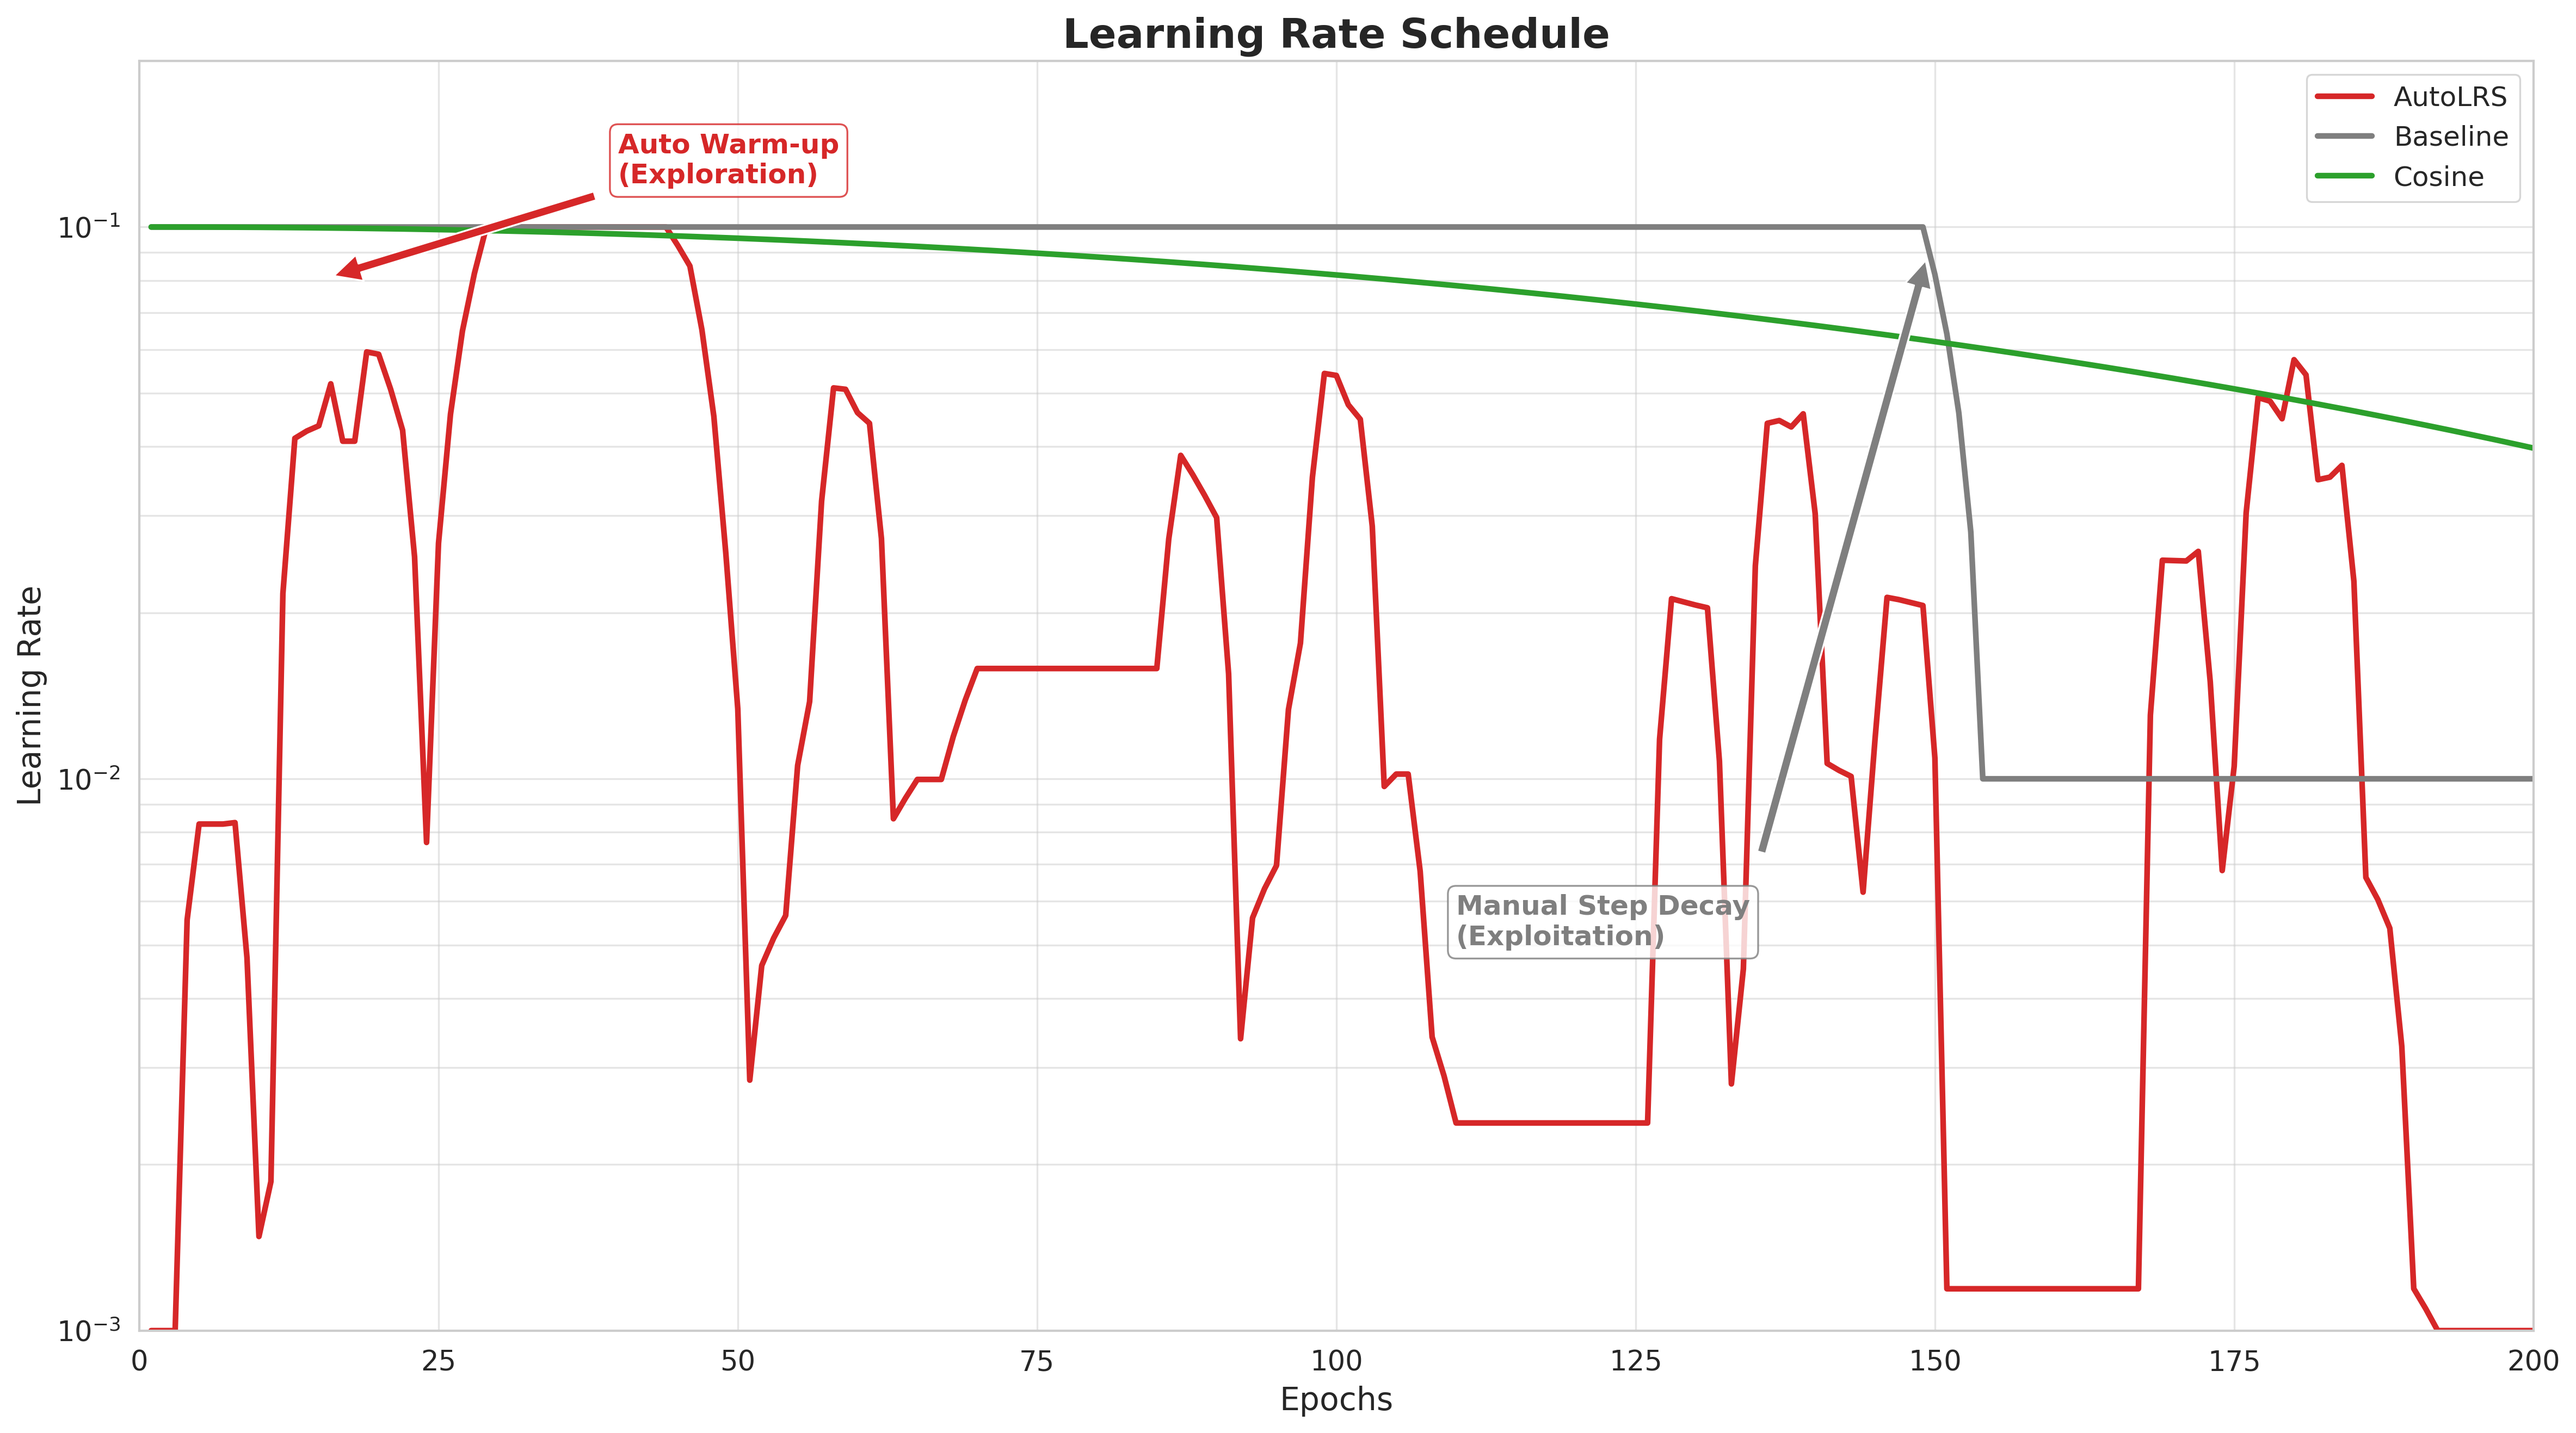
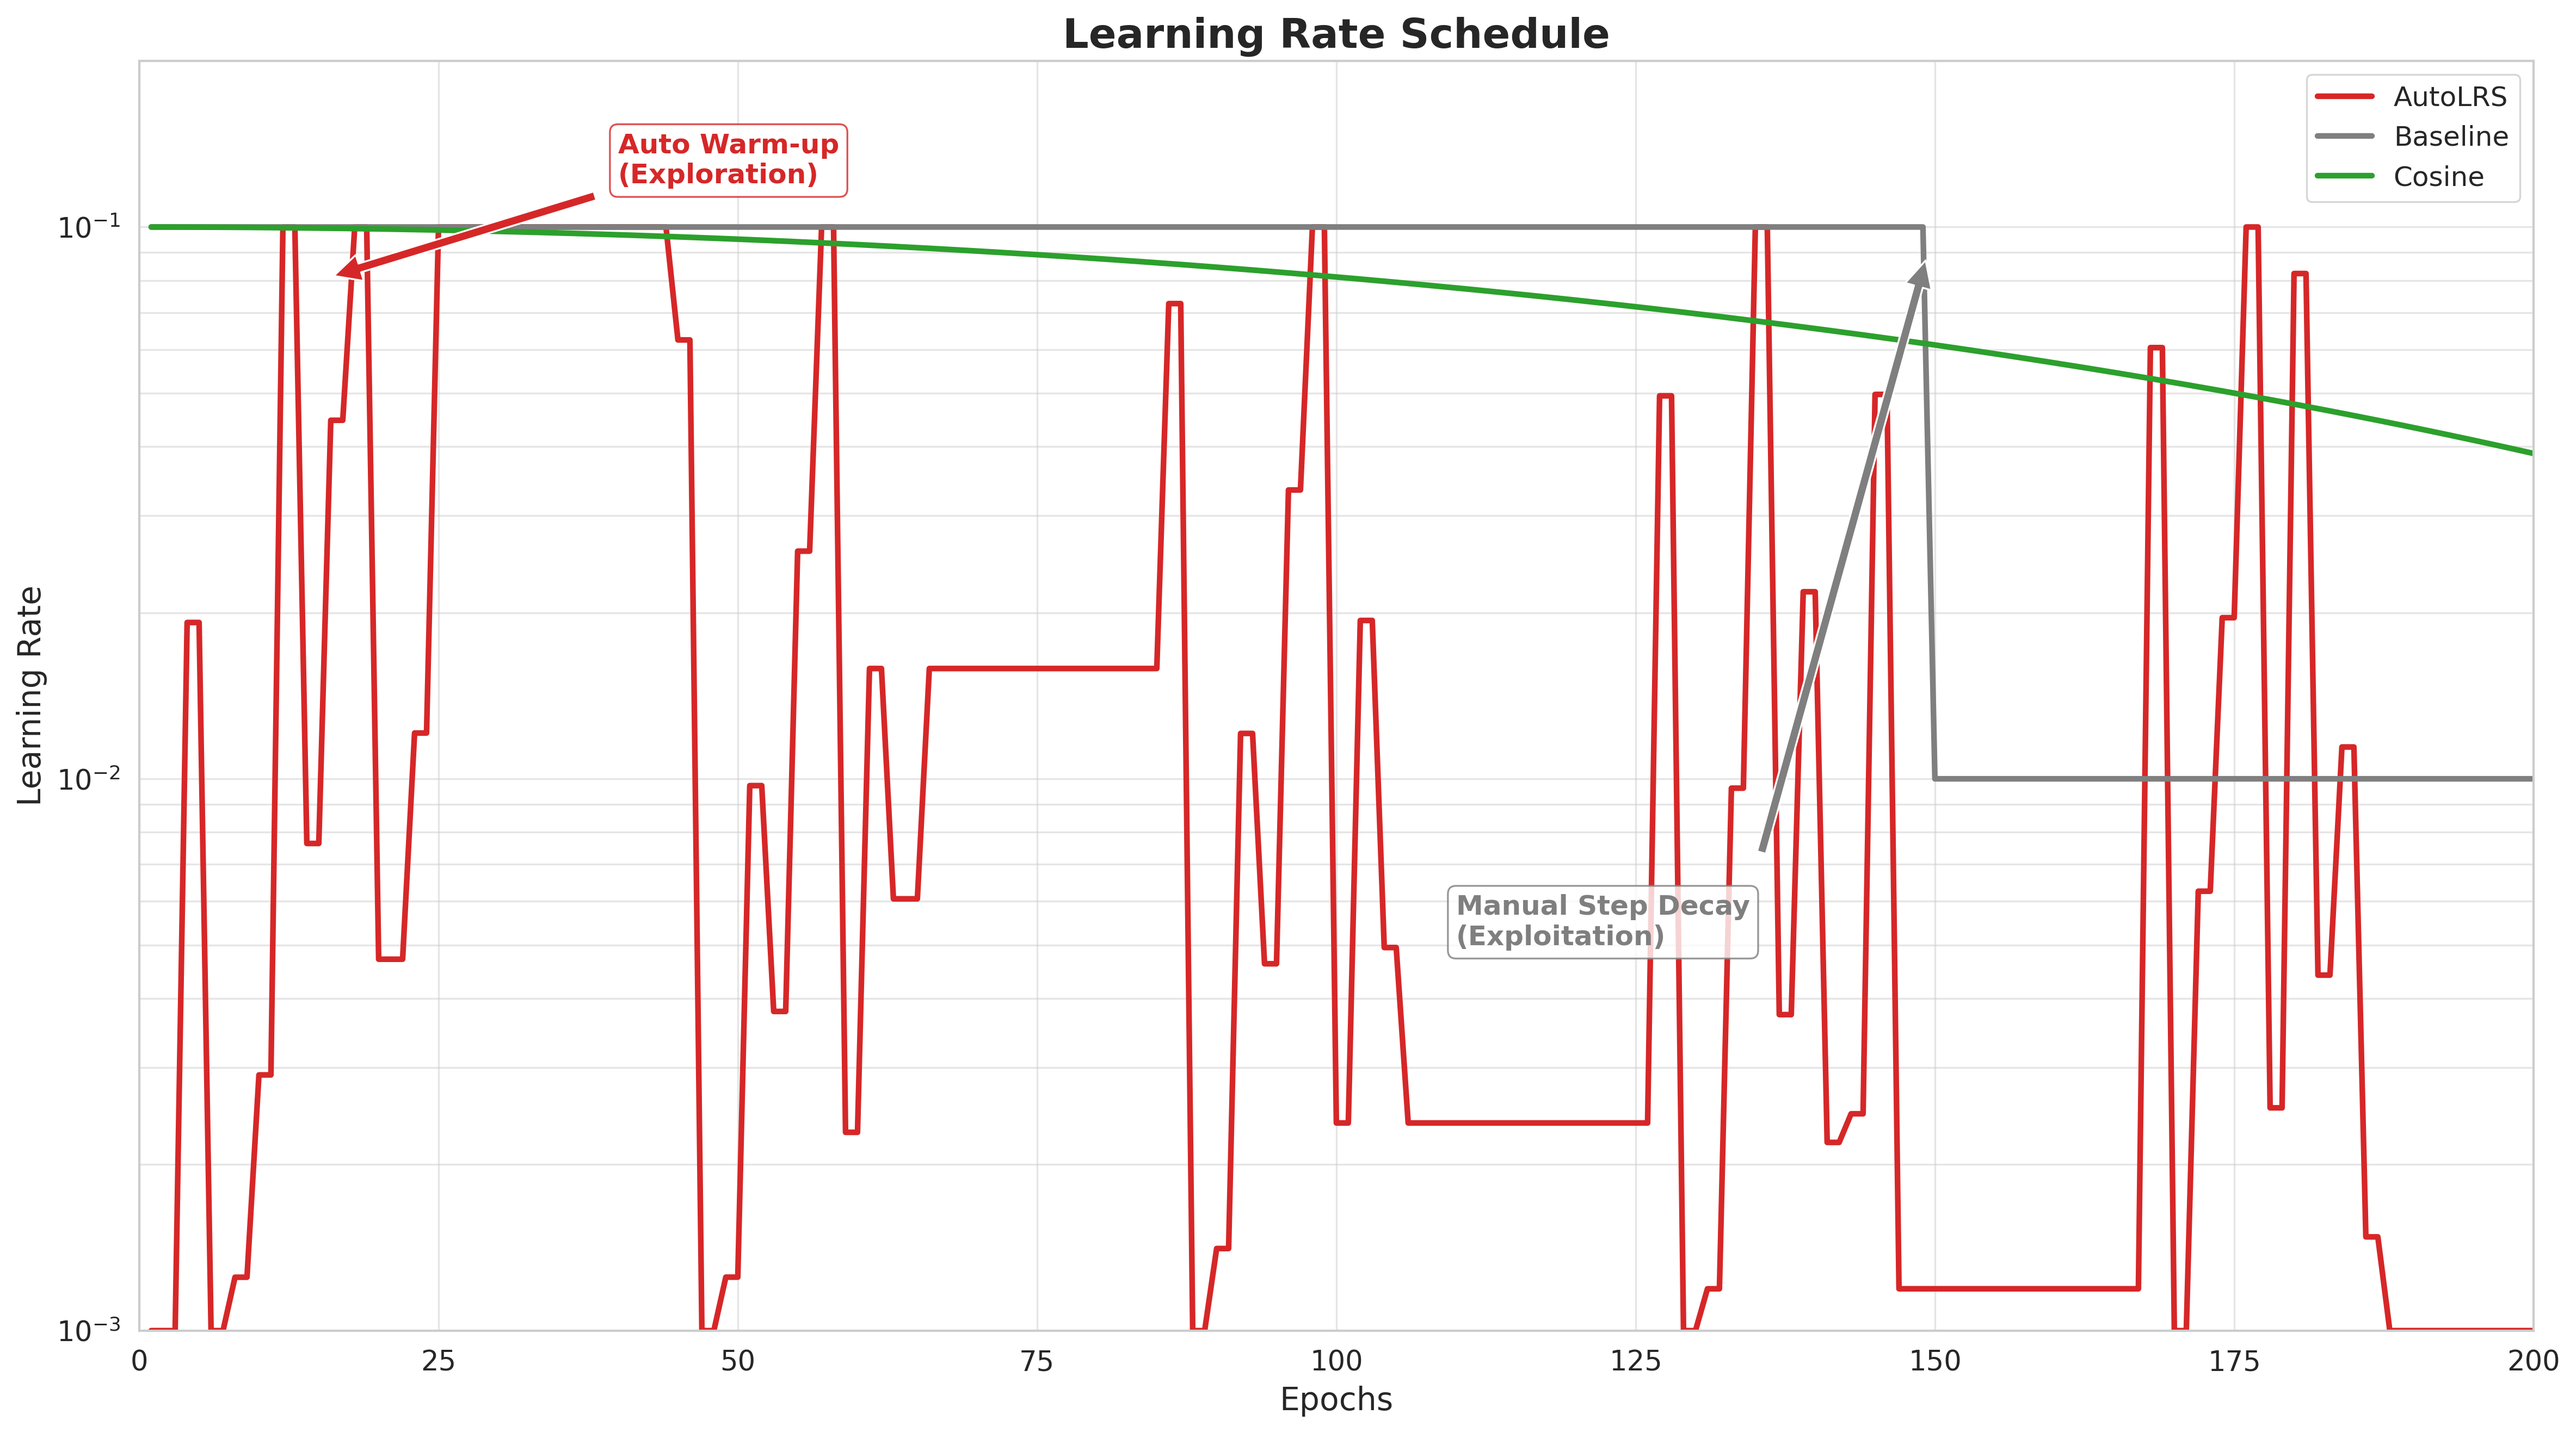
haind push

diff --git a/demo/plot_figure_1.py b/demo/plot_figure_1.py
@@ -94,7 +94,7 @@ def plot_learning_rate(dfs):
     plt.figure(figsize=(16, 9))
     for name, df in dfs.items():
         # AutoLRS có LR dao động mạnh, làm mượt sẽ dễ nhìn xu hướng hơn
-        df['LR_Smooth'] = df['LR'].rolling(window=SMOOTH_WINDOW, min_periods=1).mean()
+        df['LR_Smooth'] = df['LR'].rolling(window=1, min_periods=1).mean()
 
         sns.lineplot(
             data=df, x="Epoch", y="LR_Smooth",
